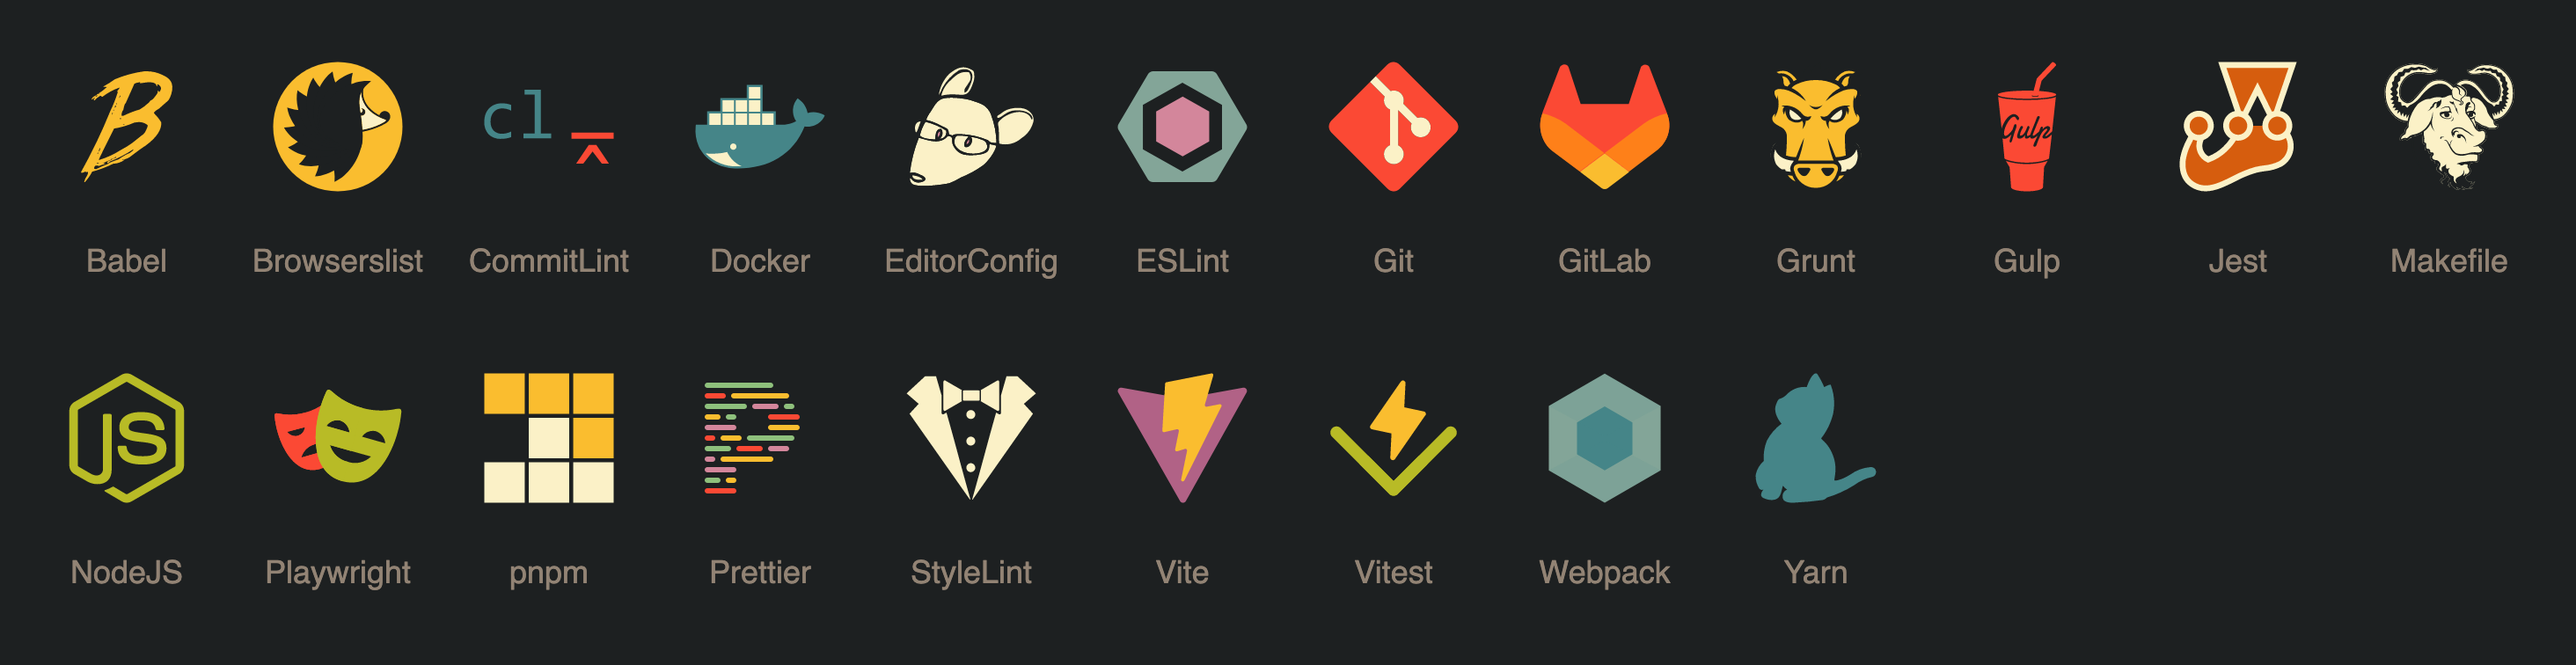
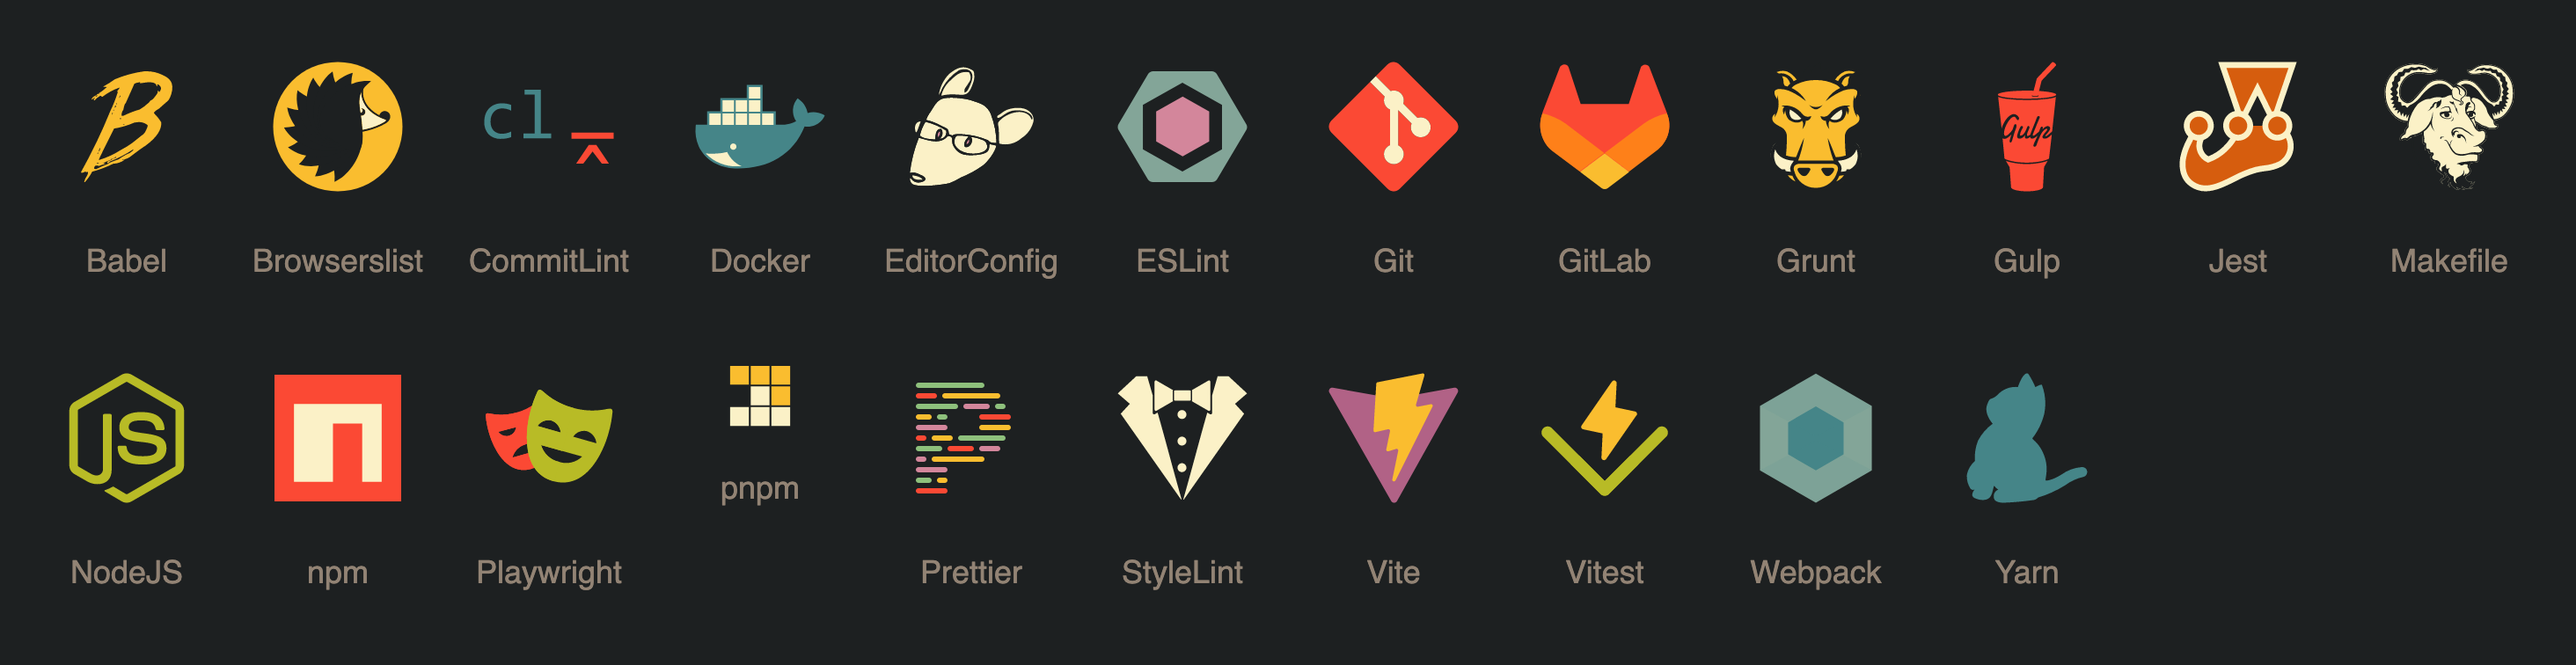
build: publish v0.6.0

diff --git a/changelog.md b/changelog.md
@@ -2,6 +2,26 @@
 
 All notable changes to this project will be documented in this file. See [standard-version](https://github.com/conventional-changelog/standard-version) for commit guidelines.
 
+## [0.6.0](https://github.com/azat-io/vscode-gruvbox-icon-theme/compare/v0.5.0...v0.6.0) (2023-02-09)
+
+
+### Features
+
+* add applescript icon ([e563cfe](https://github.com/azat-io/vscode-gruvbox-icon-theme/commit/e563cfeac14385c8197cac9563e4e0f4c4fb2446))
+* add coffeescript icon ([64d7688](https://github.com/azat-io/vscode-gruvbox-icon-theme/commit/64d768881d4418547deca13229b3be59ee7d3a78))
+* add npm icon ([76608a5](https://github.com/azat-io/vscode-gruvbox-icon-theme/commit/76608a5fc51c8006ec843ee6dbb099f2beb37e3c))
+* add ocaml icon ([ee1122f](https://github.com/azat-io/vscode-gruvbox-icon-theme/commit/ee1122f9f8d68c30c3a1f659dd9fb97e4219659a))
+* add purescript icon ([2f185c9](https://github.com/azat-io/vscode-gruvbox-icon-theme/commit/2f185c9588e2c7ba8fd7cd7aee937daedf7fba7b))
+* add rust icon ([e0ee493](https://github.com/azat-io/vscode-gruvbox-icon-theme/commit/e0ee4935aec4b5f6abb184d50b6d046bb2213f26))
+* add scala icon ([c03d68d](https://github.com/azat-io/vscode-gruvbox-icon-theme/commit/c03d68d7ec0fbb43b82b61c7cfdf4e624f9bbbfe))
+* add xml icon ([2780ac0](https://github.com/azat-io/vscode-gruvbox-icon-theme/commit/2780ac0a15b9db0628850010b6f2594451d5e409))
+* improve javascript and typescript icons ([bd0f749](https://github.com/azat-io/vscode-gruvbox-icon-theme/commit/bd0f749fca1285dee9037cc52d71427a21fc5b2b))
+
+
+### Bug Fixes
+
+* reduce pnpm icon size ([ef03f72](https://github.com/azat-io/vscode-gruvbox-icon-theme/commit/ef03f7233ff5556aab22dfd488f2ff38347c1c11))
+
 ## [0.5.0](https://github.com/azat-io/vscode-gruvbox-icon-theme/compare/v0.4.0...v0.5.0) (2023-02-08)
 
 
